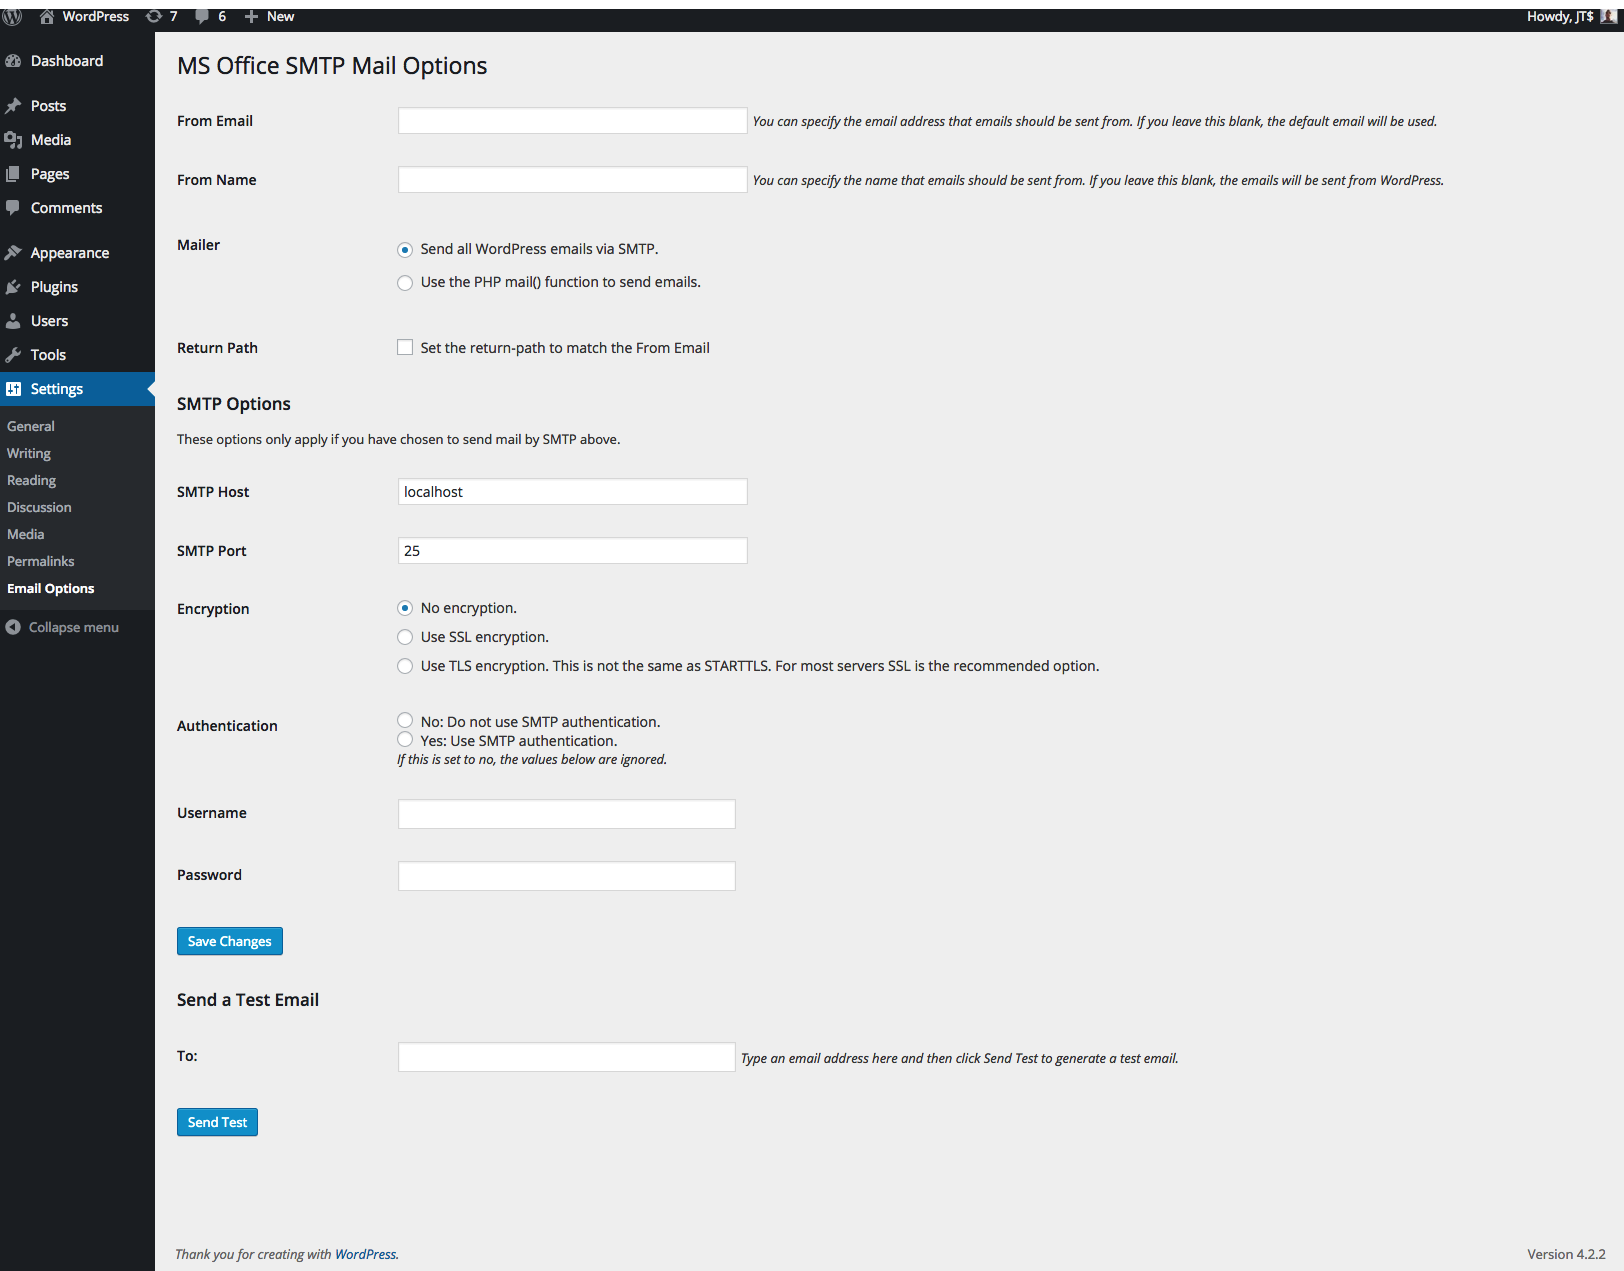
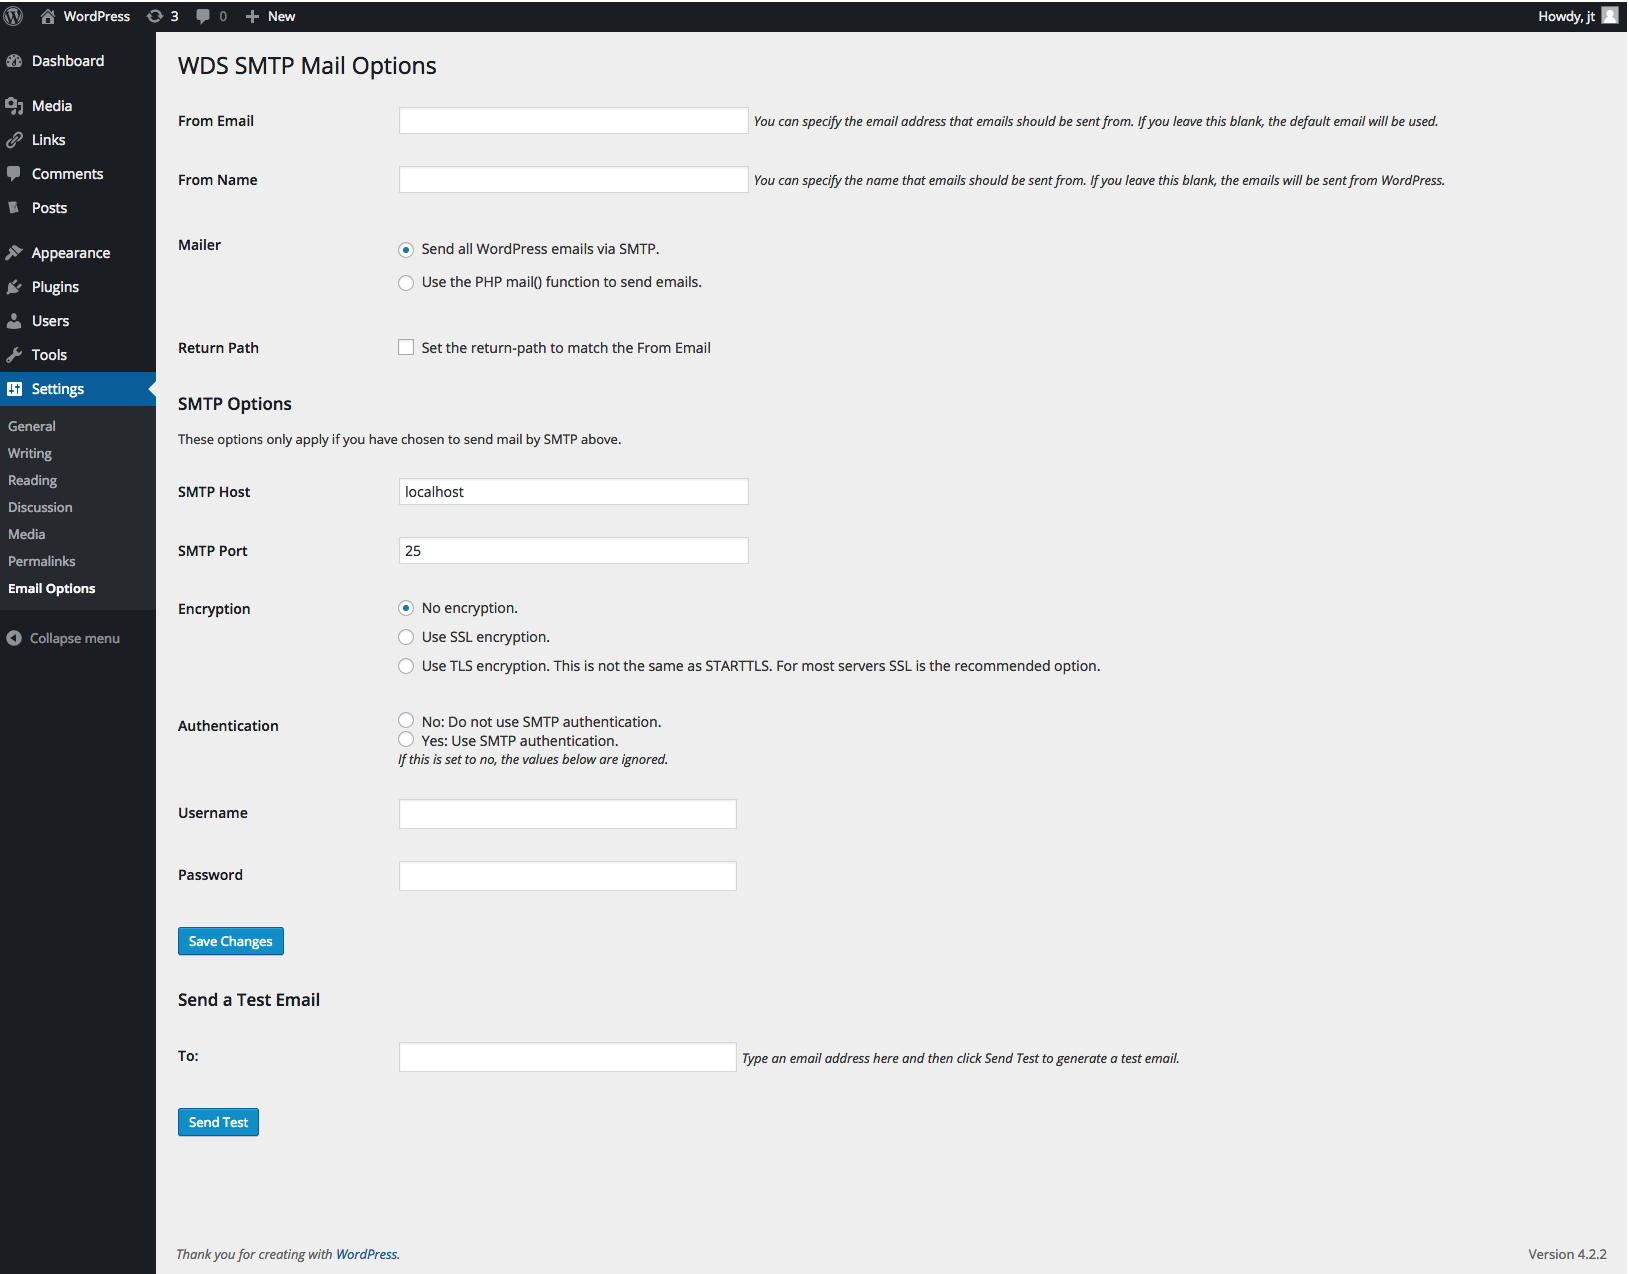
Remove leftover language

diff --git a/options-form.php b/options-form.php
@@ -1,5 +1,5 @@
 <div class="wrap">
-	<h2><?php _e('MS Office SMTP Mail Options', 'wds_smtp'); ?></h2>
+	<h2><?php _e('WDS SMTP Mail Options', 'wds_smtp'); ?></h2>
 	<form method="post" action="options.php">
 		<?php wp_nonce_field('email-options'); ?>
 		<table class="optiontable form-table">
